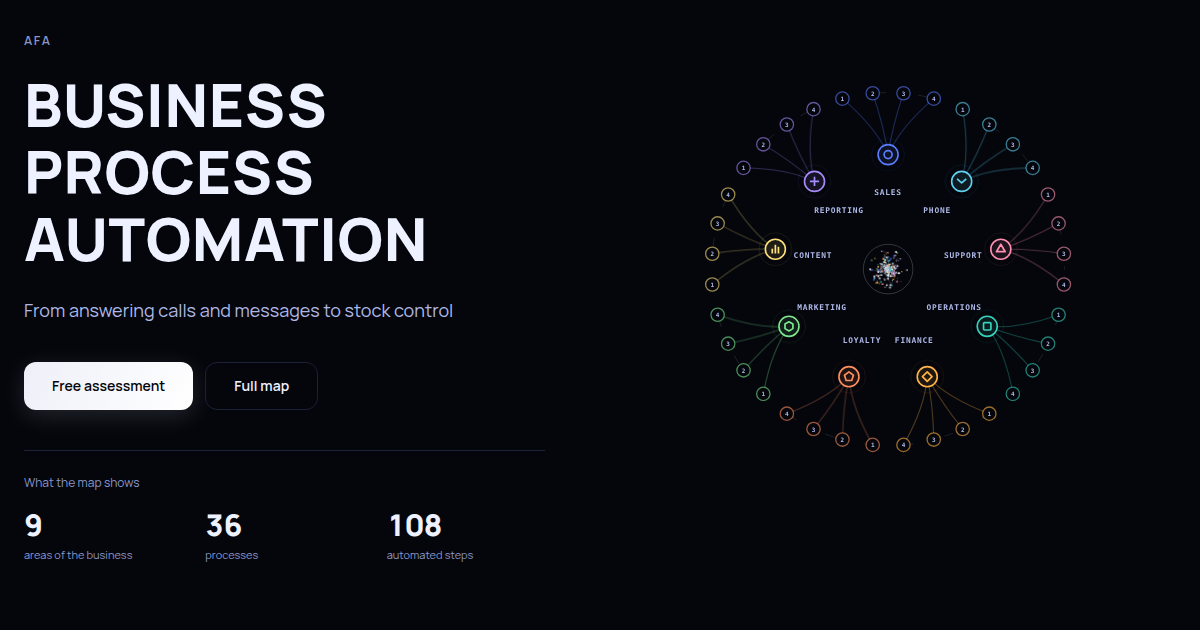
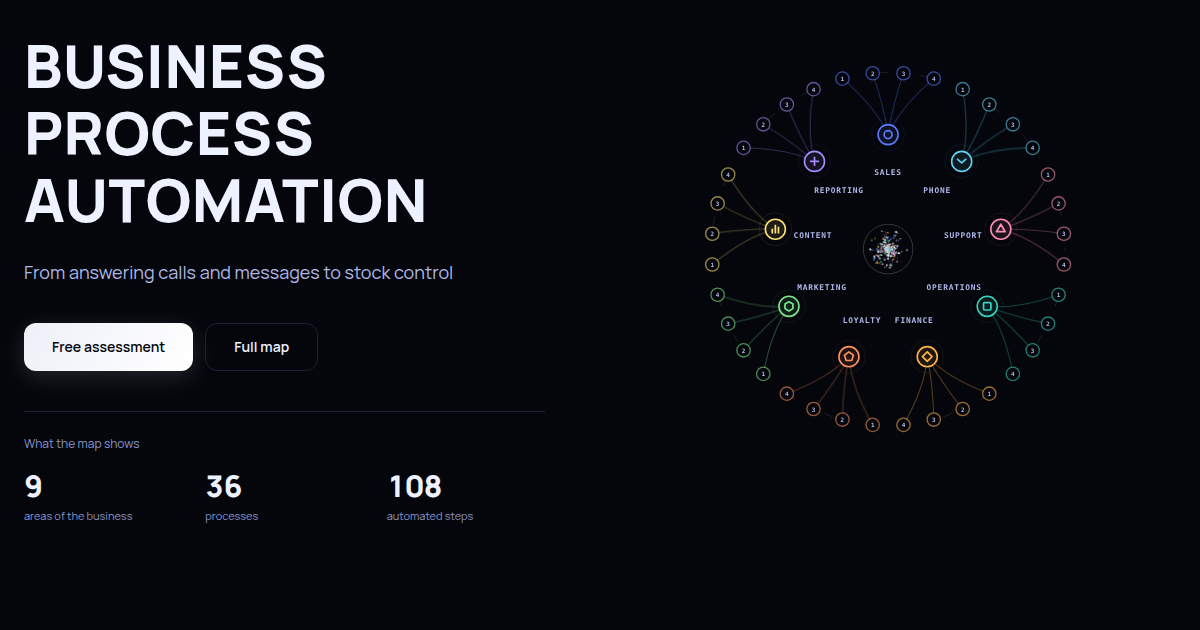
header: shorter nav labels, a raised rail, one coloured CTA; drop the hero eyebrow
The top bar had two content faults. «اتوماسیونهای اجراشده» was the section's
own heading dragged into a menu, and «نقشه کامل» repeated the hero's secondary
button word for word a few centimetres above it. A menu is an index, not a
second copy of the page: every label is now the shortest noun that names its
destination (نتایج، مراحل کار، نقشه), and the calculator finally has an entry.
`Nav.impact` was already written in both catalogs and unused.

Form follows the request for prominent, coloured buttons. The four in-page
anchors sit in one hairlined rail; scroll-spy raises and fills the section
being read, so the bar answers "where am I" without a word. /map is a chip
outside the rail because it leaves the page. The free assessment is a solid
ivory pill, the header's one coloured thing, which supersedes the older
"no CTA pill on desktop" note.

`--shadow-raise` joins tokens.css for the pressed-out chip: an inset light
edge plus a soft drop, which survives on the navy-black where a border of
--border-glass would vanish.

The desktop-only pills carry no display utility of their own. `cn` is a plain
joiner, not tailwind-merge, so `inline-flex` beside `hidden` was resolved by
stylesheet order and `hidden` lost, which stacked both pills on the logo at
390px.

The hero's «AFA» eyebrow is deleted: the mark is already in the header one
screen-inch away, and a wordmark over the claim delays the claim without
adding a fact. OG cards rebuilt from the live page.
[…]

diff --git a/src/components/layout/site-header.tsx b/src/components/layout/site-header.tsx
@@ -9,31 +9,73 @@ import { cn } from '@/lib/cn';
 import { LocaleSwitch } from './locale-switch';
 
 /* -----------------------------------------------------------------------------
-   Transparent over the map, solid once the page moves. The mark sits at the
+   Transparent over the hero, solid once the page moves. The mark sits at the
    start corner (by direct request — the logo lives in header AND footer).
 
-   The nav now has a MOBILE form, 2026-08. It had none: the list was
-   `hidden lg:block` with nothing behind it, so a phone got a logo and a
-   language switch and no way to reach any section. `Nav.menu` / `Nav.close`
-   were already written in both catalogs, waiting for this.
+   REBUILT 2026-08, on «منوی بالا صفحه هم از نظر محتوا مشکل داره و تکراریه …
+   دکمهها رنگی و یا برجسته بشن».
 
-   The old «فهرست کارها» entry is gone. It and «نقشه کامل» pointed at the same
-   content, and two names for one thing is the cheapest way to make a visitor
-   doubt they have seen everything.
+   CONTENT. The bar carried four prose labels, and two of them said what the
+   page already said elsewhere: «اتوماسیونهای اجراشده» is the section's own
+   heading dragged into a menu, and «نقشه کامل» is the hero's secondary button
+   repeated word for word two centimetres above itself. A menu is an index, not
+   a second copy of the page. Every label is now the SHORTEST NOUN that names
+   its destination, and the calculator — the most interactive thing on the site
+   and previously unreachable from the header — finally has an entry. `impact`
+   was already written in both catalogs, waiting.
+
+   FORM. The four in-page anchors live in ONE rail: a single pill, hairlined,
+   subdivided by nothing. The section you are actually reading is the raised,
+   filled chip inside it, so the bar answers "where am I" without a word. The
+   route to /map is a chip OUTSIDE the rail, because it leaves the page and
+   should not look like a scroll target. The ask is the one coloured thing on
+   the header, ivory like every other primary action on the site — which
+   supersedes the older "no CTA pill on desktop" note: the request now is for
+   the header to carry weight.
    -------------------------------------------------------------------------- */
 
-const sections = ['services', 'work', 'start'] as const;
+/** In-page anchors, in reading order. These, and only these, get scroll-spy. */
+const sections = ['services', 'impact', 'work', 'start'] as const;
 
 export function SiteHeader() {
   const t = useTranslations('Nav');
   const [scrolled, setScrolled] = useState(false);
   const [open, setOpen] = useState(false);
+  const [active, setActive] = useState<string | null>(null);
 
   useEffect(() => {
     const onScroll = () => setScrolled(window.scrollY > 12);
     onScroll();
     window.addEventListener('scroll', onScroll, { passive: true });
     return () => window.removeEventListener('scroll', onScroll);
+  }, []);
+
+  /* Scroll-spy. The band is the middle of the viewport: a section counts as
+     "the one being read" only while it crosses the centre line, so short
+     sections cannot claim the bar on their way past, and exactly one entry is
+     ever lit. Nothing is lit at the very top, where the hero is not in the
+     menu at all. */
+  useEffect(() => {
+    const nodes = sections
+      .map((id) => document.getElementById(id))
+      .filter((node): node is HTMLElement => node !== null);
+    if (nodes.length === 0) return;
+
+    const seen = new Set<string>();
+    const observer = new IntersectionObserver(
+      (entries) => {
+        for (const entry of entries) {
+          if (entry.isIntersecting) seen.add(entry.target.id);
+          else seen.delete(entry.target.id);
+        }
+        const current = sections.find((id) => seen.has(id)) ?? null;
+        setActive(current);
+      },
+      { rootMargin: '-45% 0px -45% 0px' },
+    );
+
+    for (const node of nodes) observer.observe(node);
+    return () => observer.disconnect();
   }, []);
 
   /* An open sheet must not survive a resize into the desktop layout, or the
@@ -48,8 +90,16 @@ export function SiteHeader() {
     return () => media.removeEventListener('change', sync);
   }, [open]);
 
-  const link =
-    'inline-flex min-h-11 items-center rounded-button px-3 text-sm text-muted transition-colors hover:text-ink';
+  const chip =
+    'inline-flex min-h-9 items-center rounded-pill px-3.5 text-sm transition-colors';
+  /* Desktop-only pills. They carry NO display utility of their own: `cn` is a
+     plain joiner, not tailwind-merge, so `inline-flex` next to `hidden` is
+     decided by stylesheet order and `hidden` loses — which put both of these
+     on top of the logo at 390px. The call site owns `display`. */
+  const outline =
+    'hidden min-h-10 items-center gap-2 whitespace-nowrap rounded-pill border border-border px-3.5 text-sm text-muted transition-colors hover:border-border-glass hover:text-ink lg:inline-flex';
+  const cta =
+    'hidden min-h-10 items-center whitespace-nowrap rounded-pill bg-brand px-5 text-sm font-semibold text-bg-950 shadow-brand transition-shadow hover:shadow-brand-hover lg:inline-flex';
   const sheetLink =
     'flex min-h-12 items-center text-sm text-muted transition-colors hover:text-ink';
 
@@ -66,30 +116,45 @@ export function SiteHeader() {
         <div className="flex items-center justify-between gap-4 py-3">
           <Logo label={t('home')} />
 
+          {/* The rail. One pill holding four chips; the read section is the
+              raised one. */}
           <nav aria-label={t('menu')} className="hidden lg:block">
-            <ul className="flex items-center gap-1">
-              {sections.map((id) => (
-                <li key={id}>
-                  <a href={`#${id}`} className={link}>
-                    {t(id)}
-                  </a>
-                </li>
-              ))}
-              <li>
-                <Link href="/map" className={link}>
-                  {t('mapPage')}
-                </Link>
-              </li>
+            <ul className="flex items-center gap-1 rounded-pill border border-border bg-surface/70 p-1 backdrop-blur">
+              {sections.map((id) => {
+                const isActive = active === id;
+                return (
+                  <li key={id}>
+                    <a
+                      href={`#${id}`}
+                      aria-current={isActive ? 'true' : undefined}
+                      className={cn(
+                        chip,
+                        isActive
+                          ? 'bg-surface-2 font-semibold text-ink shadow-raise'
+                          : 'text-muted hover:text-ink',
+                      )}
+                    >
+                      {t(id)}
+                    </a>
+                  </li>
+                );
+              })}
             </ul>
           </nav>
 
           <div className="flex items-center gap-2">
+            {/* Off the rail on purpose: it leaves the page. */}
+            <Link href="/map" className={outline}>
+              <span aria-hidden className="size-1.5 rounded-pill bg-blue" />
+              {t('mapPage')}
+            </Link>
+
             <LocaleSwitch />
 
-            {/* No CTA pill on desktop, by direct request — the header carries
-                the mark, the way around, and the language. The ask lives in
-                the map hero and the contact form. The phone sheet is the one
-                exception: a menu that leads nowhere is not a menu. */}
+            <a href="#contact" className={cta}>
+              {t('contact')}
+            </a>
+
             <button
               type="button"
               onClick={() => setOpen((value) => !value)}
@@ -123,7 +188,8 @@ export function SiteHeader() {
         </div>
 
         {/* The sheet. One rule per row, full-width targets — a phone menu is a
-            list of destinations, not a scaled-down desktop bar. */}
+            list of destinations, not a scaled-down desktop bar. The read
+            section is marked here too, by ink rather than by a chip. */}
         <nav
           id="site-menu"
           aria-label={t('menu')}
@@ -133,7 +199,12 @@ export function SiteHeader() {
           <ul>
             {sections.map((id) => (
               <li key={id} className="border-b border-border">
-                <a href={`#${id}`} onClick={() => setOpen(false)} className={sheetLink}>
+                <a
+                  href={`#${id}`}
+                  onClick={() => setOpen(false)}
+                  aria-current={active === id ? 'true' : undefined}
+                  className={cn(sheetLink, active === id && 'font-semibold text-ink')}
+                >
                   {t(id)}
                 </a>
               </li>
@@ -147,7 +218,7 @@ export function SiteHeader() {
               <a
                 href="#contact"
                 onClick={() => setOpen(false)}
-                className="mt-3 flex min-h-12 items-center justify-center rounded-button bg-brand px-5 text-sm font-semibold text-bg-950 shadow-brand"
+                className="mt-3 flex min-h-12 items-center justify-center rounded-pill bg-brand px-5 text-sm font-semibold text-bg-950 shadow-brand"
               >
                 {t('contact')}
               </a>

diff --git a/src/components/sections/hero.tsx b/src/components/sections/hero.tsx
@@ -1,6 +1,5 @@
 import { useTranslations } from 'next-intl';
 import { Link } from '@/i18n/navigation';
-import { Eyebrow } from '@/components/ui/editorial';
 import { RotatingWords } from '@/components/ui/rotating-words';
 import {
   CapabilityMap,
@@ -95,9 +94,11 @@ export function Hero() {
       <div className="mx-auto w-full max-w-[86rem] px-4 py-12 sm:px-6 lg:min-h-[calc(100svh-4rem)] lg:py-8">
         <div className="grid h-full grid-cols-1 items-center gap-10 lg:grid-cols-[minmax(0,0.95fr)_minmax(0,1.05fr)] lg:gap-14">
           <div>
-            <Eyebrow>{t('eyebrow')}</Eyebrow>
-
-            <h1 className="display-hero mt-5 text-ink">{t('title')}</h1>
+            {/* No eyebrow. «AFA» sat above the headline until 2026-08 and was
+                deleted by direct request: the mark is already in the header,
+                one screen-inch away, and a wordmark repeated over the claim
+                delays the claim without adding a fact. */}
+            <h1 className="display-hero text-ink">{t('title')}</h1>
 
             {/* The moving line. Each word is one block, so joined Persian
                 stays joined; reduced-motion freezes it on the first word. */}

diff --git a/src/styles/tokens.css b/src/styles/tokens.css
@@ -85,6 +85,15 @@
   --shadow-brand: 0 6px 24px rgba(238, 240, 248, 0.14);
   --shadow-brand-hover: 0 8px 32px rgba(238, 240, 248, 0.22);
 
+  /* Elevation for a chip that has to read as PRESSED-OUT of its rail: a
+   * one-pixel light edge on top, a soft drop under. Added 2026-08 when the
+   * header nav became a rail of raised chips by direct request («دکمهها
+   * رنگی و یا برجسته بشن»). Cheaper than a border, and it survives on the
+   * navy-black where a border of --border-glass would vanish. */
+  --shadow-raise:
+    inset 0 1px 0 0 rgba(255, 255, 255, 0.07),
+    0 2px 10px rgba(0, 0, 0, 0.55);
+
   /* Glass surface (floating header + tool cards only) */
   --glass-bg: var(--afa-glass-bg);
   --glass-blur: var(--afa-glass-blur);

diff --git a/src/styles/globals.css b/src/styles/globals.css
@@ -37,6 +37,7 @@
 
   --shadow-brand: var(--shadow-brand);
   --shadow-brand-hover: var(--shadow-brand-hover);
+  --shadow-raise: var(--shadow-raise);
 
   --font-fa: var(--font-fa);
   --font-en-head: var(--font-en-head);
